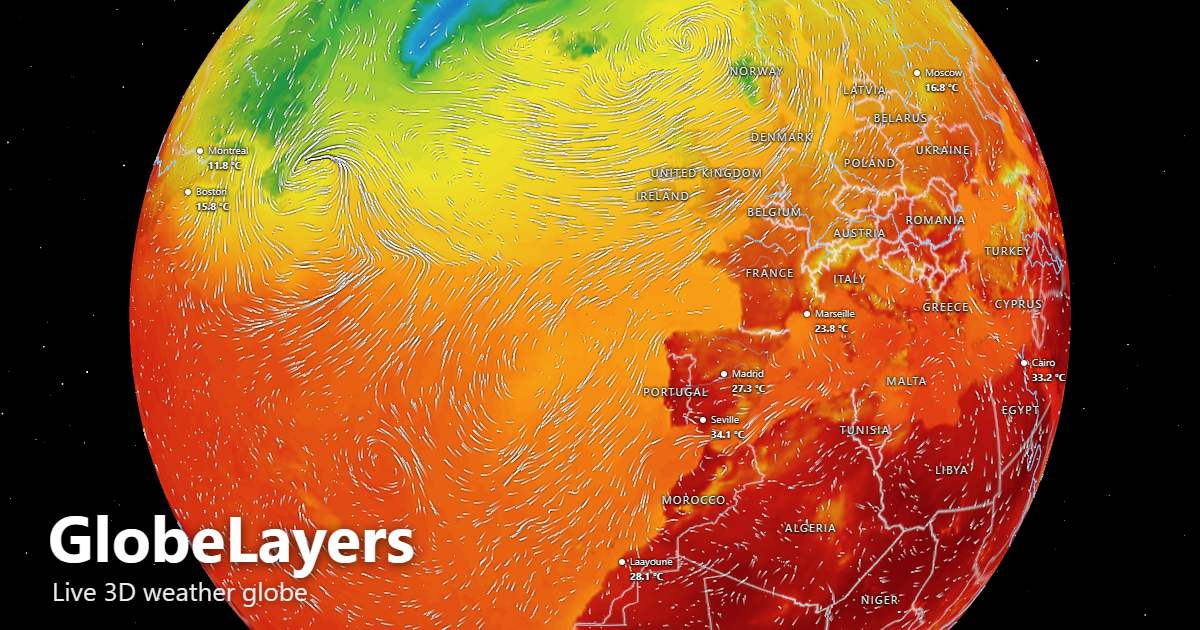
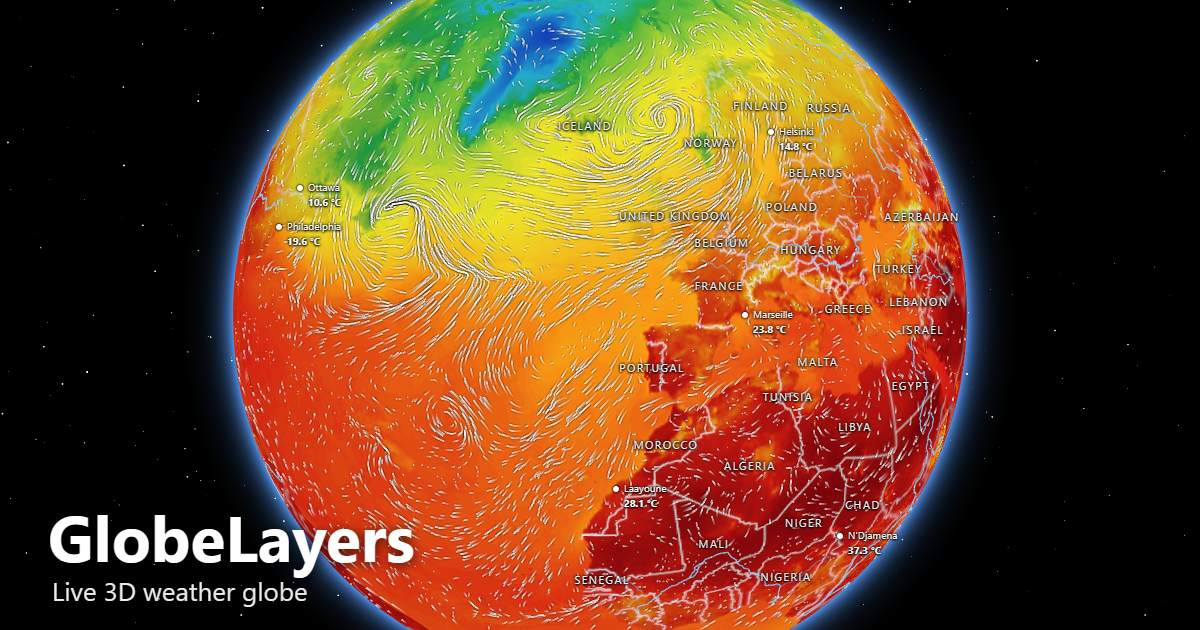
feat(render): halo validé dans le navigateur, og.jpg recapturé (globe, halo, étoiles)
Validation : lueur fine contre le limbe par-dessus les étoiles, aucune erreur GLSL, carte non
voilée à d = 1,3, 60 images/s.

diff --git a/HISTORY.md b/HISTORY.md
@@ -207,6 +207,8 @@ web/                          # frontend (branche feat/globe-heatmap, 2026-09-02
       rivers.ts                  # lot C : RiversLayer, quads instanciés statiques ; instanceCount = préfixe des rangs admis au zoom (RIVER_TIERS interpolés), dernier rang en fondu ; renderOrder 1 (vent 2)
       stars.ts                   # ciel étoilé procédural : `buildStarfield(count, seed)` déterministe (mulberry32, directions uniformes, luminosité en loi de puissance, ~1/5 d'étoiles teintées), `createStarsLayer(tier)` = `THREE.Points` 6 000 / 3 000, mélange additif dans la passe OPAQUE, renderOrder −1, sans profondeur ni frustum culling, `uPixelRatio` relu à chaque rendu
       shaders/stars.vert.glsl, shaders/stars.frag.glsl  # étoiles à l'infini : seule la rotation de la caméra s'applique (`mat3(viewMatrix)`), z de découpe à 0 ; point rond à bord doux
+      halo.ts                    # halo d'atmosphère : coque de rayon 1,12 vue par sa face arrière (masquée par la profondeur du globe sauf l'anneau du limbe), mélange additif en passe transparente, `haloOpacity(d)` = fondu entre d = 1,6 et 1,15 (objet masqué de près), `setView(d)` appelé par `onViewChange`
+      shaders/halo.vert.glsl, shaders/halo.frag.glsl  # lueur exponentielle en fonction du paramètre d'impact du rayon de vue (distance au centre), indépendante du maillage ; fondu au bord de la coque
       shaders/screen-quad.glsl   # lot C : fragment GLSL partagé vent/fleuves — élargissement d'un segment en quad dans l'espace écran (préfixé par concaténation des ?raw)
       shaders/rivers.vert.glsl   # lot C : horizon exact au rayon R, fondu du rang (uMaxRank flottant)
       shaders/rivers.frag.glsl   # lot C : bleu-cyan clair (satellite) / bleu soutenu (carte), bords anti-crénelés
@@ -251,6 +253,7 @@ web/                          # frontend (branche feat/globe-heatmap, 2026-09-02
     geo-loader.test.ts            # lot C : once, échec partiel des étiquettes, binaire invalide
     geo-wiring.test.ts            # dette n° 42 : wireGeo — URL, chargement paresseux, bascule pendant le téléchargement, réentrance I1, échecs, écouteur de vue éteint
     stars.test.ts                 # ciel étoilé : déterminisme, vecteurs unité, 8 octants, bornes et loi de luminosité, passe opaque avant le globe, pixel ratio
+    halo.test.ts                  # halo : fondu monotone éteint avant l'entrée de la caméra dans la coque, face arrière, passe transparente après le globe, setView masque l'objet de près
     english.test.ts               # lot D : garde-fou « rien de français n'est livré » — littéraux de tout src/ (commentaires exclus), index.html, 4 fichiers texte de public/, 7 shaders après retrait des commentaires ; lettres accentuées + liste de mots en mots entiers
     seo.test.ts                   # lot D : balises du <head>, JSON-LD, robots, sitemap = canonical, manifeste, _headers, texte About dans le HTML initial, en-têtes de og.jpg (1200 × 630, ≤ 150 Ko) et de l'icône (180 × 180)
     about.test.ts, beacon.test.ts, glsl-strip.test.ts  # lot D : dialog sur faux éléments ; jeton vide/valide/hostile et injection ; retrait des commentaires + test de câblage `?raw`
@@ -402,6 +405,7 @@ L'arbre des phases et leurs critères d'acceptation : `docs/PLAN.md`.
 | **Pas de `@types/node`** : `web/tests/node-shims.d.ts` *(2026-09-19, lot D)* | La spec du lot interdit toute nouvelle dépendance ; les tests qui lisent des fichiers n'utilisent que cinq signatures. Remplaçable par `@types/node` en une ligne. |
 | **Phrase About sur la fraîcheur : « forecast valid for the current hour, taken from the latest available model run »**, pas « 4 to 6 hours after each model run » *(2026-09-19, revue finale)* | Le globe montre la prévision valide à l'heure courante (décision du 2026-08-30 ci-dessus) : « 4 à 6 h » laissait croire à des données vieilles de 4 à 6 h. |
 | **Ciel étoilé procédural** (points générés par le code), pas une photo de la Voie lactée ; **pas de scintillement** *(2026-09-19, choix utilisateur)* | Aucun téléchargement ni mémoire GPU de plus (+1 Ko de bundle), net à toute résolution, fond sobre qui ne concurrence pas les couleurs des couches. Un scintillement forcerait un rendu continu, contraire au rendu à la demande (batterie sur mobile). Étoiles **à l'infini dans le shader** (rotation de la caméra seule) : `camera.far` = d + 2, une sphère d'étoiles réelle serait rognée, et il ne faut aucune parallaxe au zoom. |
+| **Halo d'atmosphère calculé par pixel à partir du paramètre d'impact du rayon de vue**, sur une coque vue par sa face arrière, plutôt qu'un fresnel sur les normales du maillage ; **éteint de près** *(2026-09-19, feuille de route P3)* | La lueur ne dépend ni du maillage ni de l'échelle de la coque, et décroît comme une atmosphère vue par la tranche. De près le limbe sort de l'écran et la caméra entrerait dans la coque (rayon 1,12 > d) : elle voilerait la carte. Statique : le rendu reste à la demande. |
 
 ## 6. Problèmes rencontrés & solutions
 
@@ -567,7 +571,7 @@ Ordre recommandé le 2026-09-19 : D (livré) → E → F → finitions.
 |---|---|---|---|
 | P1 | Relief 3D géométrique (displacement map, phase 4) | Remplacé par un hillshade dans les tuiles (spec 3, choix assumé) | **Déconseillé** *(analyse 2026-09-19, estimation non mesurée)* : coût par image faible (une lecture de texture par sommet, patchs 32×32 / 16×16), mais canaux des tuiles `map` tous pris → nouveau jeu de tuiles (R2 déjà à 4,5 Go / 10, mémoire GPU `low` 96 Mo) ; maillage à densifier ; vent (1,002), fleuves (1,001), picking, étiquettes et horizon supposent une sphère lisse ; jupes 0,005 insuffisantes ; bénéfice visible seulement au limbe (caméra toujours à l'aplomb). Alternatives presque gratuites : P3, ou accentuer le hillshade par un uniform |
 | P2 | Rotation automatique quand l'utilisateur est inactif (phase 6) | Rien dans le code | Finition, après D–F |
-| P3 | Halo d'atmosphère sur le pourtour (phase 6) | Rien dans le code | Finition peu coûteuse (un maillage, quelques lignes de shader), bon rapport effet/coût |
+| P3 | ~~Halo d'atmosphère sur le pourtour (phase 6)~~ ✅ livré 2026-09-19 (`render/halo.ts`), avec un ciel étoilé procédural (`render/stars.ts`) | ~~Rien dans le code~~ | Finition peu coûteuse (un maillage, quelques lignes de shader), bon rapport effet/coût |
 | P4 | Emplacements publicitaires, monétisation (phase 6) | `#ad-slot` présent dans `index.html`, caché ; aucune régie | Après le lot D (audience mesurée d'abord) |
 
 **Dettes techniques encore ouvertes au 2026-09-19** : n° 30, 33, 34, 35, 38, 39, 40, 43, 44 (n° 32, 36, 37 non relues ce jour), plus la machine à états des couches et du vent restée dans `main.ts`.
